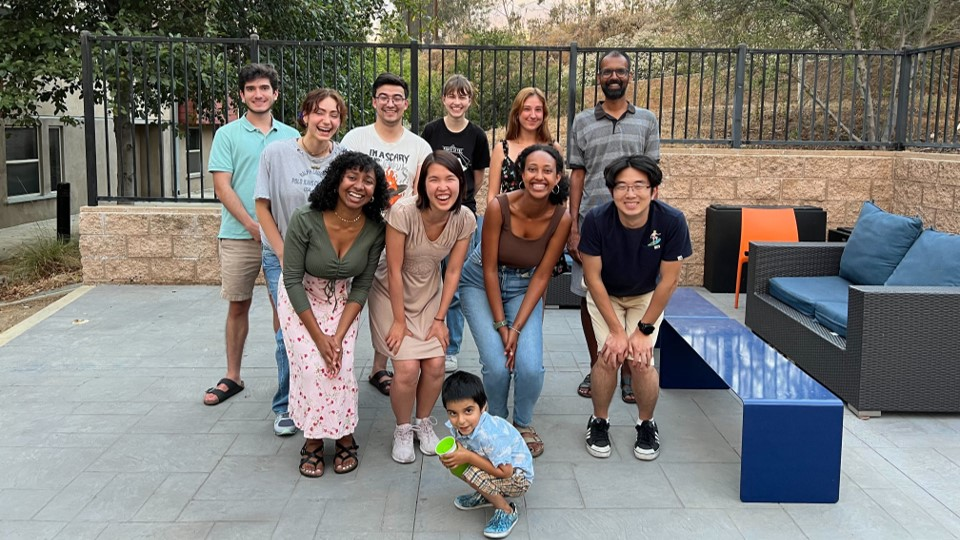
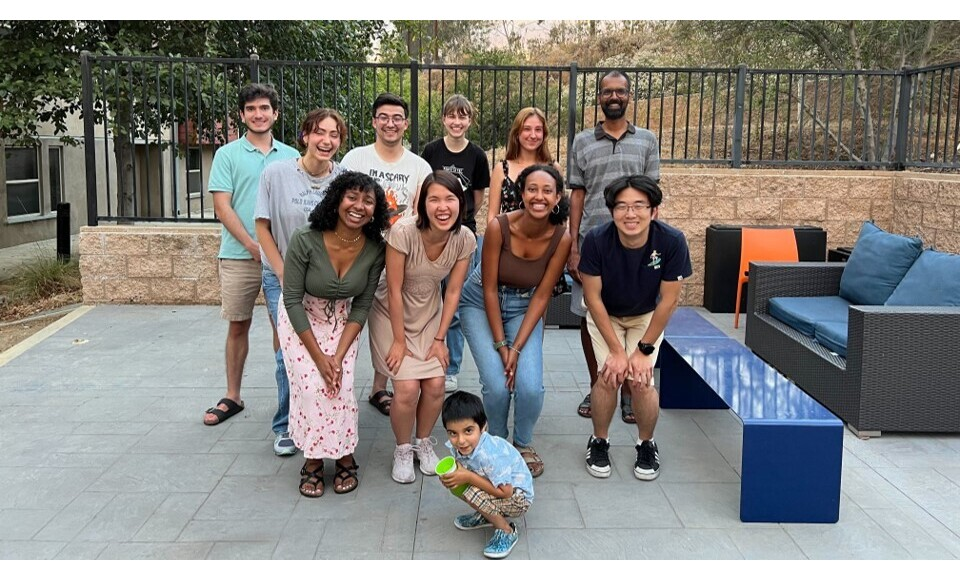
edit background images

diff --git a/templates/index.html b/templates/index.html
@@ -45,7 +45,7 @@
               /* The image used is done inline*/
 
               /* Other Parameters */
-              width: 100%;
+              height: 100%;
 
               /* Create the parallax scrolling effect */
               background-attachment: fixed;
